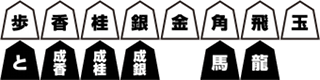
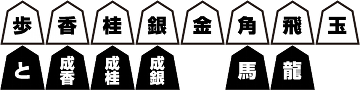
modify: layout and design

diff --git a/app/assets/stylesheets/games.css.sass b/app/assets/stylesheets/games.css.sass
@@ -8,8 +8,8 @@ $cell_size: 51px
 $cell_width: 56px
 $cell_height: 60px
 $edge_cell_height: 20px
-$side_cell_width: 20px
-$piece_size: 40px
+$side_cell_width: 18px
+$piece_size: 45px
 $line_color: #b37100
 
 @mixin corner_cell
@@ -39,11 +39,13 @@ $line_color: #b37100
       font-size: 100%
       margin: 0 3px
       width: 50px
+  .actions
+    margin: 10px 0
 
 .board
   @include user-select(none)
-  width: $cell_width * 9 + $side_cell_width * 2
-  height: $cell_height * 9 + $edge_cell_height * 2
+  width: $board_width
+  height: $board_height
   background-repeat: no-repeat
   background-image: url(/assets/boards/default.png)
   .row
@@ -53,7 +55,11 @@ $line_color: #b37100
       float: left
       width: $piece_size
       height: $piece_size
-      padding: (($cell_height - $piece_size) / 2) (($cell_width - $piece_size) / 2)
+      padding:
+        top: (($cell_height - $piece_size) / 2)
+        bottom: (($cell_height - $piece_size) / 2)
+        right: (($cell_width - $piece_size) / 2)
+        left: (($cell_width - $piece_size) / 2) + 1px
       &.highlight
         cursor: pointer
         background-color: #ffc077
@@ -139,7 +145,7 @@ $line_color: #b37100
     background-position: (- $piece_size * 6) (- $piece_size)
 
 nav.next_game
-  margin: 30px 0
+  margin: 20px 0
   .see_more
   a.see_more
     @include button(simple)
@@ -155,33 +161,34 @@ nav.next_game
 
 .board_container
   @include clearfix
-  width: $cell_width * 11 + $side_cell_width * 2 + 10px * 6
+  width: $cell_width * 11 + $side_cell_width * 2
   margin: 0 auto
   .board
     float: left
-    margin: 0 10px
+    margin: 0
   .in_hand
     float: left
-    margin: $edge_cell_height 10px
+    margin: 0
     width: $cell_width
     height: $cell_height * 9
+    padding: $edge_cell_height 0
 
 /* Smart Phone */
+@media only screen and (max-device-width: 1024px)
+  .fb_comments
+    max-height: 300px
 
-@media only screen and (max-width: 480px) and (max-device-width: 1024px) and (orientation:portrait)
+@media only screen and (max-device-width: 1024px) and (orientation:portrait)
   .board_container
-    width: auto
+    width: $board_width
+    margin: 0 auto
     .board
       float: none
-      margin: 10px auto
     .in_hand
       float: none
-      margin: 10px auto
+      margin: 0 auto
       width: $cell_width * 9
       height: $cell_height
-  .fb_comments
-    max-height: 300px
+      padding: 0 $side_cell_width
 
-@media only screen and (max-width: 480px) and (max-device-width: 1024px) and (orientation:landscape)
-  .fb_comments
-    max-height: 300px
+@media only screen and (max-device-width: 1024px) and (orientation:landscape)

diff --git a/app/assets/stylesheets/application.css.sass b/app/assets/stylesheets/application.css.sass
@@ -58,8 +58,10 @@ a
 
 .common_container
   padding: 10px
+  &#game_page
+    padding: 0
 table.resources
-  width: 100%
+  width: $common_width - 20px
   margin-bottom: 10px
   th, td
     text-align: center
@@ -89,7 +91,7 @@ ul.menu
       font-size: 100%
       display: block
       margin: 0 auto
-      width: 140px
+      width: 180px
       text-align: center
       text-decoration: none
 
@@ -102,17 +104,52 @@ ul.menu
 
 /* facebook */
 .fb_comments
-  margin: 30px auto
-  width: 600px
+  margin: 30px auto 0
+  width: 500px
   max-height: 600px
   overflow: hidden
 
 /* Smart Phone */
 
-@media only screen and (max-width: 480px) and (max-device-width: 1024px) and (orientation:portrait)
-  .fb_comments
-    max-height: 480px
+@media only screen and (max-device-width: 1024px)
+  ul.menu
+    li
+      margin: 25px 0
+      a
+        width: 300px
+  #{$all-text-inputs}
+    font-size: 24px
+    height: 36px
+  select
+    font-size: 24px
+    height: 44px
+  input[type="radio"]
+    font-size: x-large
+    height: 30px
+    width: 30px
+  input[type="submit"], button
+    &.send
+      font-size: 24px
 
-@media only screen and (max-width: 480px) and (max-device-width: 1024px) and (orientation:landscape)
-  .fb_comments
-    max-height: 480px
+@media only screen and (max-device-width: 1024px) and (orientation:portrait)
+  $common_width: $mobile_portrait_width
+  $max_content_width: $common_width - 20px
+  table.resources
+    width: $max_content_width
+    th, td
+      &.spec
+        display: none
+  #{$all-text-inputs}
+    max-width: $max_content_width - 30px
+  select
+    max-width: $max_content_width
+
+@media only screen and (max-device-width: 1024px) and (orientation:landscape)
+  $common_width: $mobile_landscape_width
+  $max_content_width: $common_width - 20px
+  table.resources
+    width: $common_width - 20px
+  #{$all-text-inputs}
+    max-width: $max_content_width - 30px
+  select
+    max-width: $max_content_width

diff --git a/app/assets/stylesheets/structure.css.sass b/app/assets/stylesheets/structure.css.sass
@@ -46,9 +46,21 @@ footer#global_foot
     text-align: center
 
 /* Smart Phone */
+@media only screen and (max-device-width: 1024px)
+  header#global_head
+    & > .inner
+      h1
+        font-size: 100%
+      aside
+        a
+          font-size: 100%
+  footer#global_foot
+    p
+      span#credit
+        display: block
 
 @media only screen and (max-device-width: 1024px) and (orientation:portrait)
-  $common_width: 640px
+  $common_width: $mobile_portrait_width
   $max_width: $common_width
   header#global_head
     @include common_inner
@@ -70,7 +82,7 @@ footer#global_foot
     font-size: 24px
 
 @media only screen and (max-device-width: 1024px) and (orientation:landscape)
-  $common_width: 1024px
+  $common_width: $mobile_landscape_width
   $max_width: $common_width
   header#global_head
     @include common_inner

diff --git a/app/assets/stylesheets/base.css.sass b/app/assets/stylesheets/base.css.sass
@@ -82,9 +82,9 @@ select
   border: 1px solid $border_color
   font-size: 12px
 input[type="submit"], button
-  font-size: 14px
   &.send
     @include button
+    font-size: 14px
 
 label
   color: #000
@@ -109,13 +109,3 @@ label
 
 .clearfix
   display: block
-
-/* Smart Phone */
-
-@media only screen and (max-width: 480px) and (max-device-width: 1024px)
-  #{$all-text-inputs}
-    font-size: 18px
-  select
-    font-size: 18px
-  input[type="submit"], button
-    font-size: 18px

diff --git a/app/assets/stylesheets/common/_helpers.css.sass b/app/assets/stylesheets/common/_helpers.css.sass
@@ -3,6 +3,10 @@ $link_color: #05a
 $border_color: #aaa
 $max_width: 760px
 $common_width: $max_width
+$board_width: 540px
+$board_height: 580px
+$mobile_landscape_width: 1120px
+$mobile_portrait_width: $board_width
 
 @mixin rotate180
   /* FireFox */

diff --git a/app/assets/stylesheets/users.css.sass b/app/assets/stylesheets/users.css.sass
@@ -7,10 +7,7 @@
 dl#user_profile
   @include clearfix
   dt, dd
-    float: left
-    margin-bottom: 15px
   dt
-    width: 20%
     font-weight: bold
   dd
-    width: 80%
+    margin-bottom: 15px
